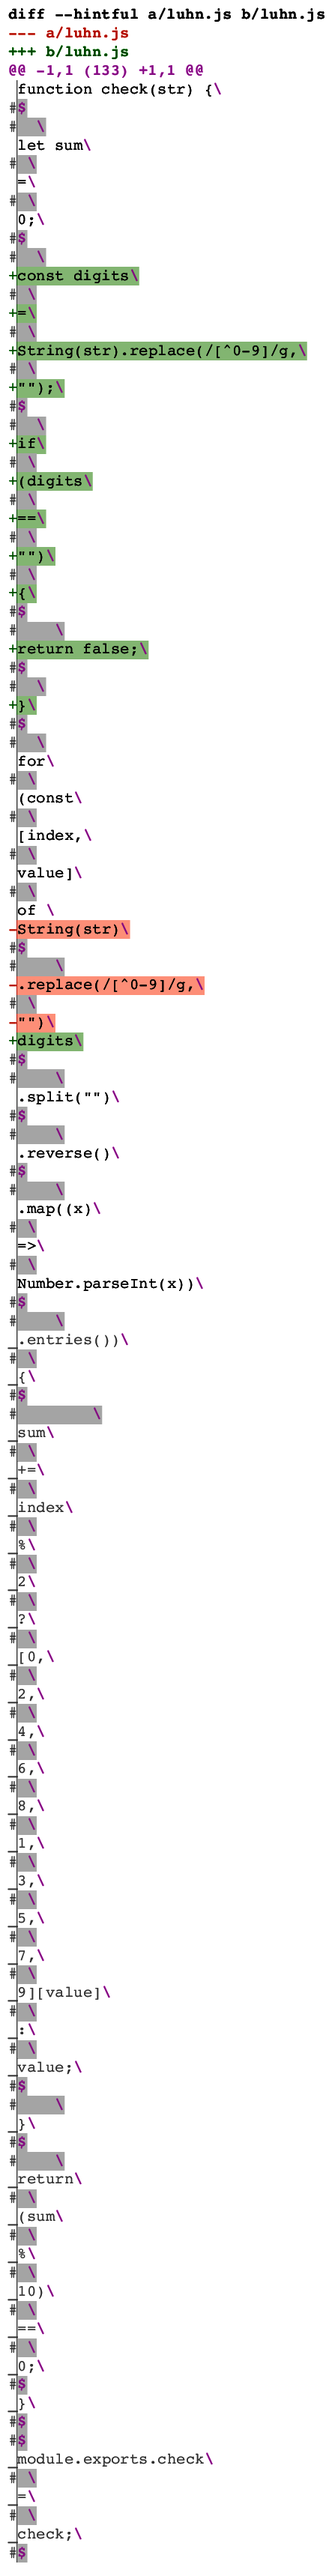
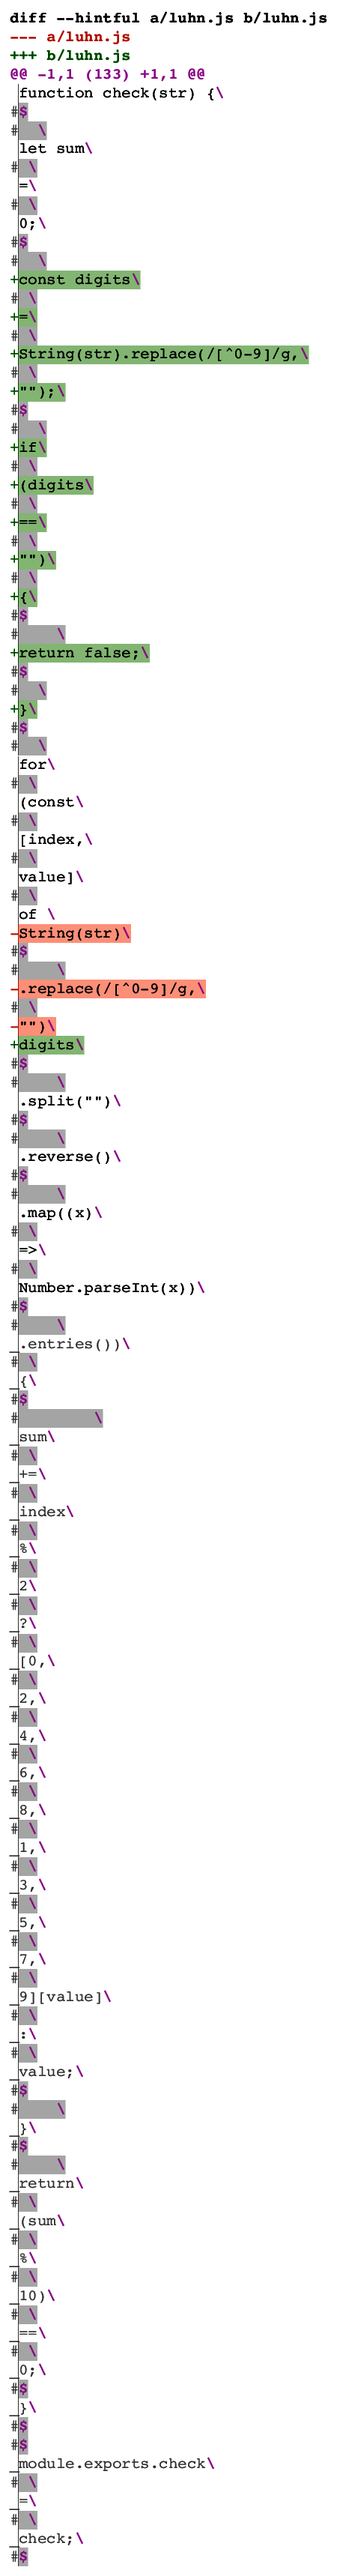
Fix image quality and building
- Trim with LaTeX rather than ImageMagick
- Adjust sizing in kerning in prelude.tex
- Fix UnifiedCont in prelude.tex
- Increase rasterization density to 300
- Keep phys chunk in .png
- Delete .aux and .log files using a bash trap
- Remove ImageMagick policy in container

diff --git a/make-img/prelude.tex b/make-img/prelude.tex
@@ -1,4 +1,4 @@
-\documentclass{article}
+\documentclass[varwidth=16383pt, border=3pt]{standalone}
 
 % Colors
 \usepackage{xcolor}
@@ -16,10 +16,10 @@
 
 % Util
 \newcommand\Backslash{\bold{magenta}{\textbackslash}}
-\newcommand\Bar{\kern-1pt\rule[-\dp\strutbox]{1pt}{\baselineskip}}
+\newcommand\Bar{\kern-.2pt\rule[-\dp\strutbox]{.2pt}{\baselineskip}}
 \newcommand\Dollar{\bold{magenta}{\$}}
-\newcommand\UnifiedCont{\nl\fg{grey}{\textbackslash\spc{No newline at end of file}\nl}}
-\newcommand\bg[2]{\strut{\settowidth{\tmpWd}{#2\kern1pt}{\rlap{\color{#1}{\rule[-\dp\strutbox]{\tmpWd}{\dimexpr\ht\strutbox+\dp\strutbox}}}}#2}}
+\newcommand\UnifiedCont{\nl\fg{grey}{\textbackslash\spc{No newline at end of file}}\nl}
+\newcommand\bg[2]{\strut{\settowidth{\tmpWd}{#2}{\rlap{\color{#1}{\rule[-\dp\strutbox]{\tmpWd}{\dimexpr\ht\strutbox+\dp\strutbox}}}}#2}}
 \newcommand\bold[2]{\fg{#1}{\textbf{#2}}}
 \newcommand\fg[2]{{\color{#1}#2}}
 \newcommand\nl{\par}
@@ -55,13 +55,13 @@
 \newcommand\HighlightLabelright[1]{\bold{green}{#1}\nl}
 \newcommand\HighlightUnifiedBeginhunkSuppressed[1]{\fg{lightgrey}{\textbf{#1}\nl}}
 \newcommand\HighlightUnifiedBeginhunk{\HighlightHintfulBeginhunk}
-\newcommand\HighlightUnifiedLeftContentCont[1]{\fg{red}{{-}\Bar}\bg{lightred}{#1\UnifiedCont}}
+\newcommand\HighlightUnifiedLeftContentCont[1]{\fg{red}{{-}\Bar}\bg{lightred}{#1}\UnifiedCont}
 \newcommand\HighlightUnifiedLeftContentLineSuppressed[1]{\fg{lightgrey}{{-}#1}\nl}
 \newcommand\HighlightUnifiedLeftContentLine[1]{\fg{red}{{-}\Bar}\bg{lightred}{#1}\nl}
-\newcommand\HighlightUnifiedLeftRightContentCont[1]{\fg{grey}{\spc\Bar}#1\fg{grey}\UnifiedCont}
+\newcommand\HighlightUnifiedLeftRightContentCont[1]{\fg{grey}{\spc\Bar}#1\UnifiedCont}
 \newcommand\HighlightUnifiedLeftRightContentLineSuppressed[1]{\fg{lightgrey}{\spc#1}\nl}
 \newcommand\HighlightUnifiedLeftRightContentLine[1]{\fg{grey}{\spc\Bar}#1\nl}
-\newcommand\HighlightUnifiedRightContentCont[1]{\fg{green}{+\Bar}\bg{lightgreen}{#1\UnifiedCont}}
+\newcommand\HighlightUnifiedRightContentCont[1]{\fg{green}{+\Bar}\bg{lightgreen}{#1}\UnifiedCont}
 \newcommand\HighlightUnifiedRightContentLineSuppressed[1]{\fg{lightgrey}{+#1}\nl}
 \newcommand\HighlightUnifiedRightContentLine[1]{\fg{green}{+\Bar}\bg{lightgreen}{#1}\nl}
 \newcommand\LineFollowedBySnippetEnd[2]{\suppressOneNl#1#2\nl}
@@ -100,10 +100,8 @@
 \newcommand\VisualizeUnifiedRightContentLine{\HighlightUnifiedRightContentLine}
 
 % Style
-\usepackage[left=1mm, top=1mm, paperwidth=1000mm, paperheight=2000mm]{geometry}
 \usepackage{courierten}
 \usepackage[T1]{fontenc}
-\pagestyle{empty}
 
 \begin{document}%
-\huge\tt%
+\tiny\tt%
